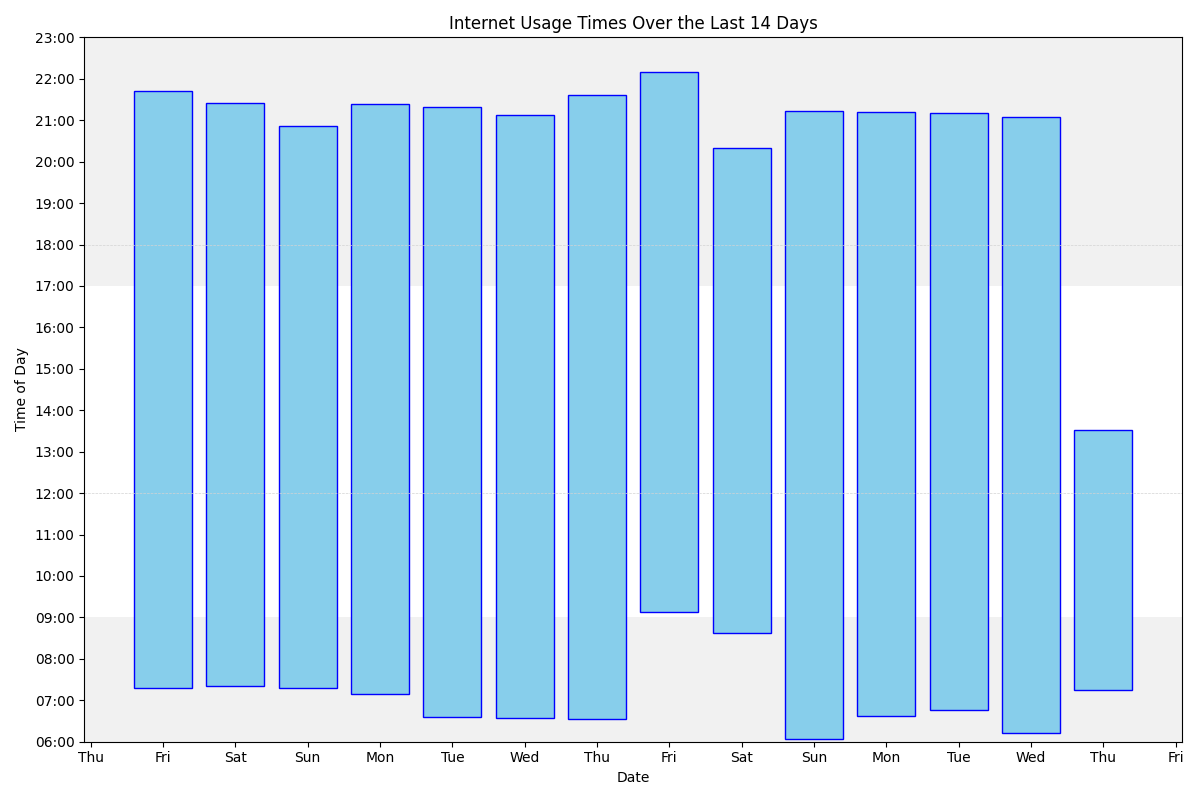
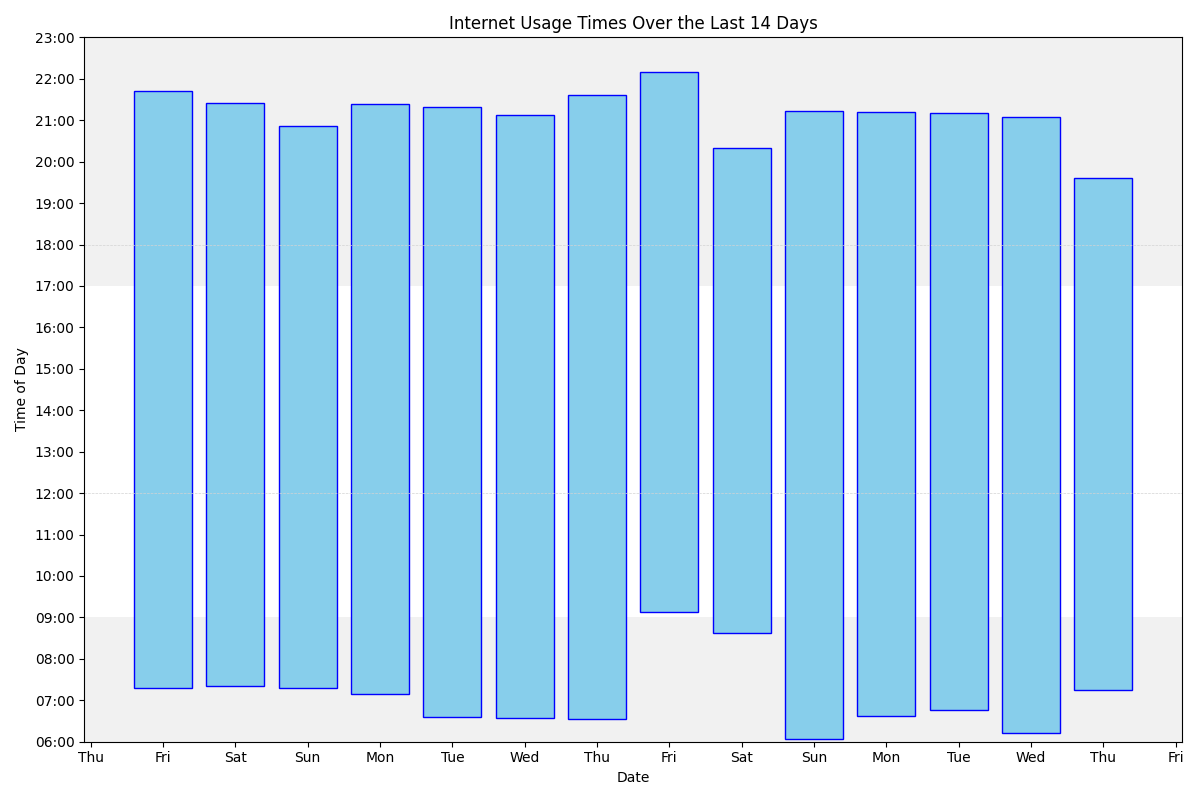
Update

Changed region(s): [[0.8942, 0.2188, 0.9558, 0.5625]]

diff --git a/index.md b/index.md
@@ -68,7 +68,7 @@ ul>li::after {
 <h3> Most common sites</h3>
 With number of accesses/minutes in parentheses
 
-<ol><li>www.google.com (2195)</li>
+<ol><li>www.google.com (2205)</li>
 <li>outlook.office.com (1258)</li>
 <li>docs.google.com (1197)</li>
 <li>mail.google.com (1148)</li>
@@ -76,10 +76,10 @@ With number of accesses/minutes in parentheses
 <li>outlook.office365.com (1092)</li>
 <li>www.facebook.com (629)</li>
 <li>www.amazon.co.uk (397)</li>
-<li>www.reddit.com (388)</li>
+<li>www.reddit.com (390)</li>
 <li>rhul-my.sharepoint.com (356)</li>
 <li>chatgpt.com (344)</li>
-<li>github.com (299)</li>
+<li>github.com (302)</li>
 <li>moodle.royalholloway.ac.uk (286)</li>
 <li>calendar.google.com (284)</li>
 <li>www.linkedin.com (277)</li>
@@ -90,7 +90,7 @@ With number of accesses/minutes in parentheses
 <li>drive.google.com (170)</li>
 <li>duckduckgo.com (167)</li>
 <li>forms.office.com (150)</li>
-<li>tvtropes.org (128)</li>
+<li>tvtropes.org (130)</li>
 <li>ev.turnitinuk.com (126)</li>
 <li>rhul.sharepoint.com (120)</li>
 <li>gmail.com (112)</li>
@@ -108,6 +108,28 @@ With number of accesses/minutes in parentheses
 
 <br>
 
+<ul><li> 19:35 www.google.com</li>
+<li class='same'> 19:25 www.google.com</li>
+<li> 19:21 tvtropes.org</li>
+<li> 19:21 www.google.com</li>
+<li> 19:21 tvtropes.org</li>
+<li> 19:21 www.google.com</li>
+<li> 19:21 www.nationalgallery.org.uk</li>
+</ul>
+
+<br>
+
+<ul><li class='same'> 17:06 www.nationalgallery.org.uk</li>
+<li class='same'> 17:03 www.nationalgallery.org.uk</li>
+<li> 17:03 www.google.com</li>
+<li> 17:01 www.tortilla.co.uk</li>
+<li> 17:01 www.gov.uk</li>
+<li> 17:01 www.tortilla.co.uk</li>
+<li> 17:01 www.google.com</li>
+</ul>
+
+<br>
+
 <ul><li> 13:32 outlook.office.com</li>
 <li class='same'> 13:31 outlook.office.com</li>
 <li class='same'> 13:30 outlook.office.com</li>
@@ -119,6 +141,12 @@ With number of accesses/minutes in parentheses
 <li class='same'> 13:22 outlook.office.com</li>
 <li> 13:22 outlook.office365.com</li>
 <li> 13:22 outlook.office.com</li>
+</ul>
+
+<br>
+
+<ul><li> 12:25 www.gov.uk</li>
+<li> 12:25 www.google.com</li>
 </ul>
 
 <br>
@@ -303,6 +331,8 @@ With number of accesses/minutes in parentheses
 <li class='same'> 19:52 docs.google.com</li>
 <li class='same'> 19:51 docs.google.com</li>
 <li> 19:40 chatgpt.com</li>
+<li> 19:35 www.google.com</li>
+<li> 19:35 www.reddit.com</li>
 </ul>
 
 <br>
@@ -327,6 +357,10 @@ With number of accesses/minutes in parentheses
 <li class='same'> 17:06 docs.google.com</li>
 <li> 17:06 outlook.office.com</li>
 <li class='same'> 17:05 outlook.office.com</li>
+<li> 16:49 www.reddit.com</li>
+<li> 16:49 www.google.com</li>
+<li class='same'> 16:19 www.google.com</li>
+<li> 16:19 <a href="https://joereddington.com/paperwriting/#slide1">Effective Collaborative Paper Writing</a></li>
 </ul>
 
 <br>
@@ -30914,7 +30948,9 @@ With number of accesses/minutes in parentheses
 
 <br>
 
-<ul><li> 10:10 publish.buffer.com</li>
+<ul><li> 10:11 account.buffer.com</li>
+<li class='same'> 10:10 account.buffer.com</li>
+<li> 10:10 publish.buffer.com</li>
 <li> 10:10 buffer.com</li>
 <li> 10:09 www.linkedin.com</li>
 </ul>
@@ -31533,17 +31569,16 @@ With number of accesses/minutes in parentheses
 <br>
 
 <ul><li> 14:18 <a href="https://en.wikipedia.org/wiki/Bluey_(2018_TV_series)">Bluey (2018 TV series) - Wikipedia</a></li>
-</ul>
-
-<br>
-
-<ul><li> 13:41 scholar.google.com</li>
+<li> 14:06 github.com</li>
+<li> 13:41 scholar.google.com</li>
 <li> 13:23 whitewaterwriters.com</li>
+<li> 13:17 github.com</li>
 </ul>
 
 <br>
 
-<ul><li> 12:39 github.com</li>
+<ul><li class='same'> 12:40 github.com</li>
+<li class='same'> 12:39 github.com</li>
 <li class='same'> 12:37 github.com</li>
 </ul>
 
